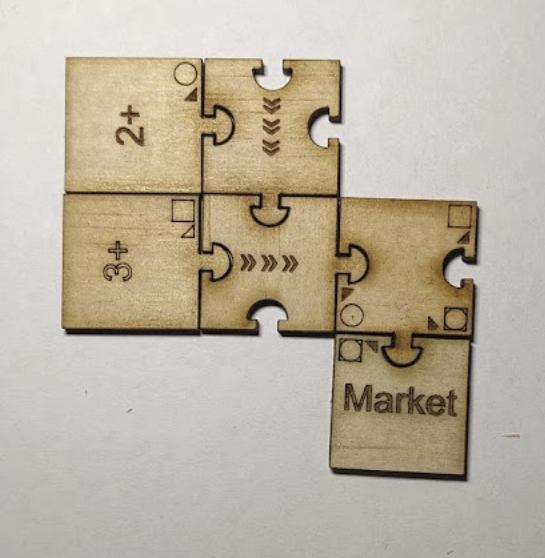
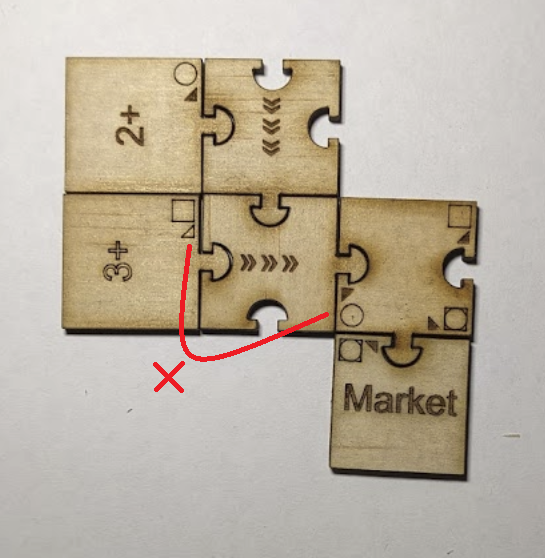
Update public docs

diff --git a/rules.md b/rules.md
@@ -34,7 +34,7 @@ Power tokens are circular with a lightning bolt on them. These represent power i
 
 ![](img/mine_v1.png)
 
-Mines are the pieces with a number and a plus symbol in the centre. They produce raw material for your factory. They have a symbol next to the output peg that shows which material they produce. You can activate a mine by placing a power token on it if a dice is rolled with a value equal to or greater than the number on the mine. When the mine of a machine is consumed, its power token is removed and returned to the shared pool.
+Mines are the pieces with a number and a plus symbol in the centre. They produce raw material for your factory. They have a symbol next to the output peg that shows which material they produce. If a dice is rolled with a value equal to or higher than the number on the mine you can choose to place a power token on it to activate it. The power token is removed from the mine and returned to the shared pool when the resource is consumed from the mine.
 
 ### Machines
 
@@ -59,6 +59,15 @@ These pieces consume a particular resource and produce power tokens. When all in
 ![](img/conveyor_v1.png)
 
 Conveyors are the pieces with the “«««” symbol. Conveyers move resources around your factory, from their inputs to their output. Conveyors can be chained together. You are not allowed mix different resources on a conveyor - a conveyor can only convey one resource type to one destination. If multiple producers feeding a conveyor are powered you can choose which producer to depower to activate the consumer at the end of the conveyor chain.
+
+In this example there are two circle mines feeding onto a conveyer, leading to the circle input of a machine. This is a valid configuration, and a good way to ensure your machine has a steady supply of circle resources!
+
+![](img/conveyor_demo_v1.png)
+
+In this example there are two different resources feeding onto the same conveyor, and one of them does not match the resource type on the input to the machine! Calamity!
+![](img/conveyor_invalid_v1.png)
+
+
 
 ## Construction
 ### Buying and adding pieces
